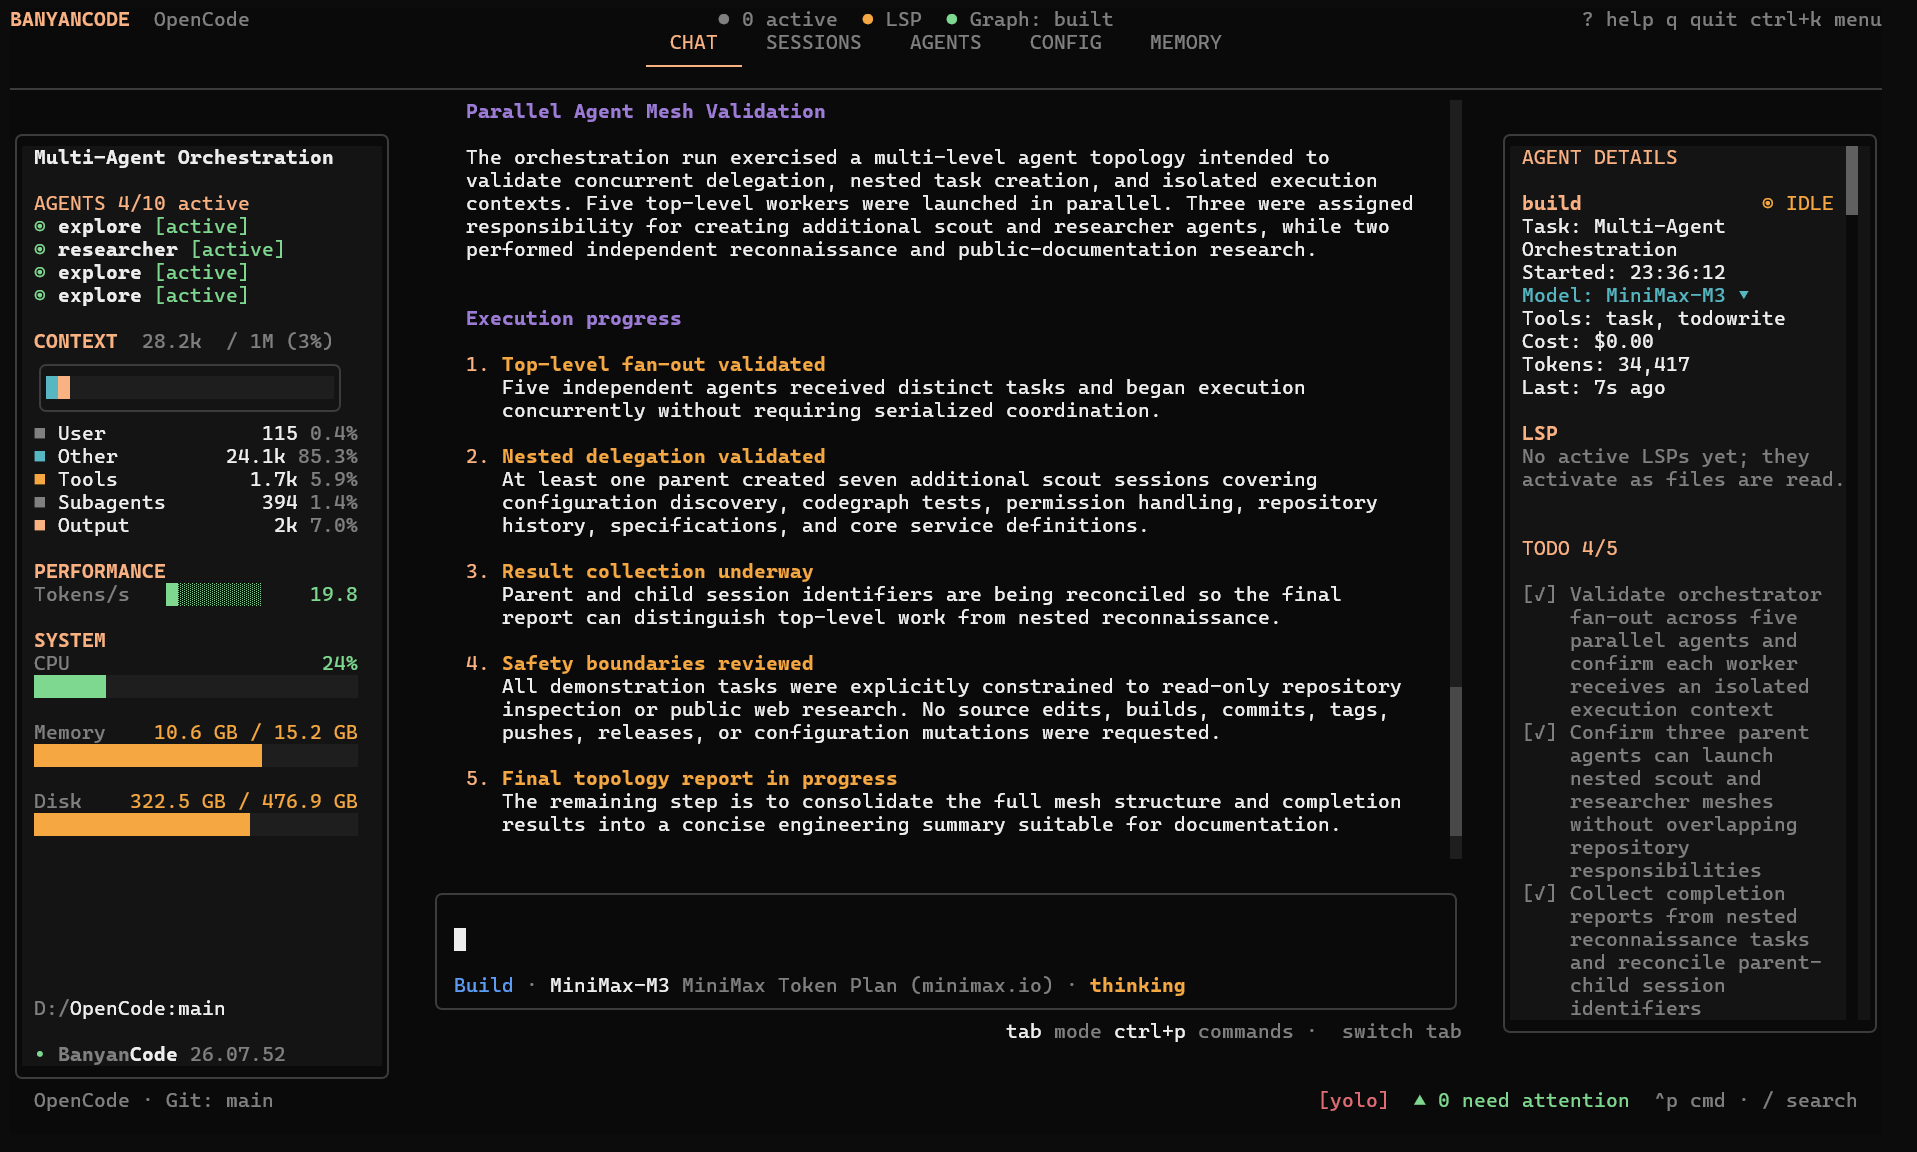
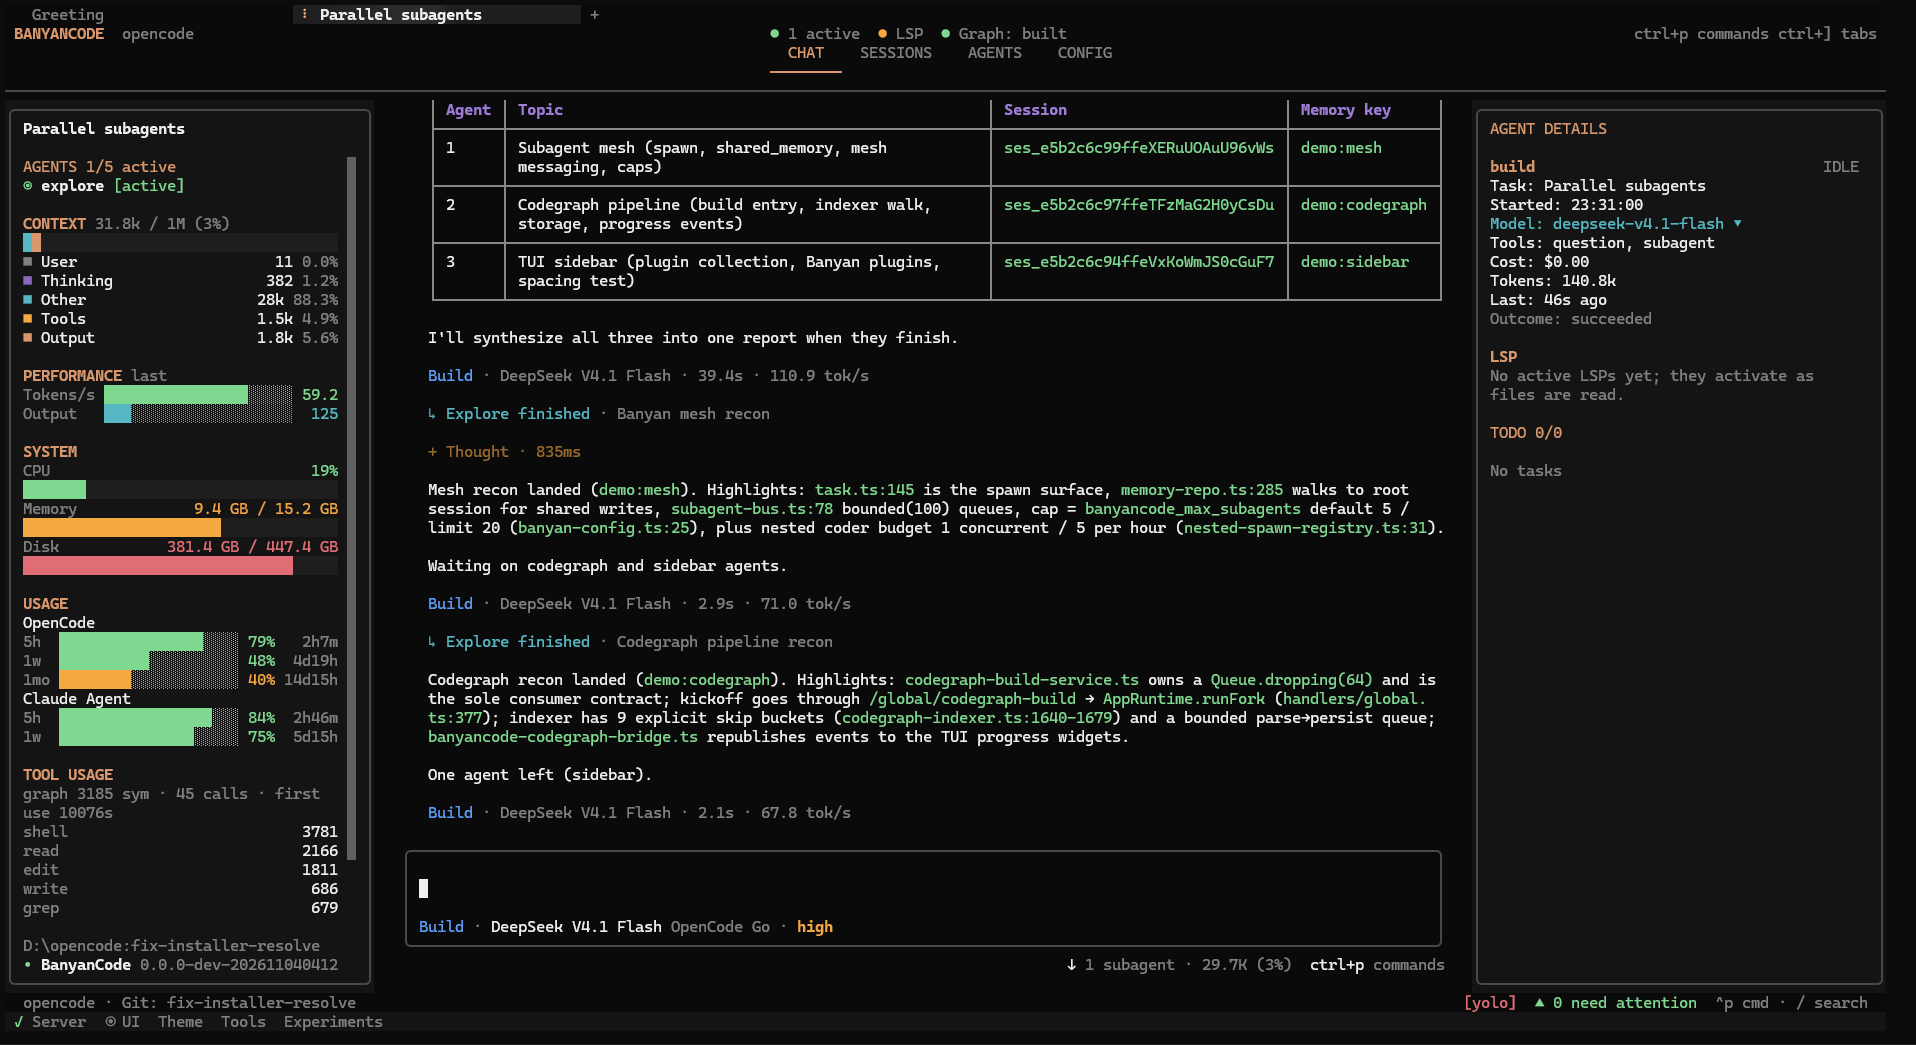
docs: update the README screenshots for 26.11.1

Changed region(s): [[0.0, 0.0, 0.9854, 1.0], [0.154, 0.0, 0.2463, 0.0306], [0.6467, 0.3368, 0.6775, 0.3675]]

diff --git a/README.md b/README.md
@@ -18,11 +18,11 @@ One coordinated TUI for agentic coding — built on [OpenCode](https://github.co
 ---
 
 <p align="center">
-  <img src="./assets/front.png" alt="BanyanCode homescreen — the terminal-native TUI entry point showing sessions, workspace, and the command palette" width="100%" />
+  <img src="./assets/front.png" alt="BanyanCode Home screen: a banyan tree above the BANYANCODE wordmark, the prompt, and a list of recent sessions to resume" width="100%" />
 </p>
 
 <p align="center">
-  <sub>The <b>Homescreen</b> — open a session, pick a workspace, and start a coordinated team of agents.</sub>
+  <sub>The <b>Home</b> screen: type a prompt, or pick up one of your recent sessions.</sub>
 </p>
 
 ---
@@ -63,11 +63,11 @@ BanyanCode's rule is simple: **structural questions get structural tools, not ey
 The orchestrator decomposes your task and dispatches specialist agents — `scout`, `coder`, `explore`, `researcher`, `reviewer` — **concurrently**. They share state over a typed message bus, request help from each other, report progress, and surface results in a unified agent tree. A user-configurable cap with **oldest-ended eviction** keeps concurrency bounded so nothing runs away with your resources.
 
 <p align="center">
-  <img src="./assets/subagent.png" alt="BanyanCode AGENTS tab — the agent tree showing the orchestrator dispatching multiple subagents and sub-subagents in a nested hierarchy" width="100%" />
+  <img src="./assets/subagent.png" alt="BanyanCode AGENTS tab in the Trace view: each subagent on a shared timeline with token activity and tool calls, beside a panel of tokens by branch and returned summaries" width="100%" />
 </p>
 
 <p align="center">
-  <sub>The <b>AGENTS</b> tab — every subagent, every nested spawn, every token, live in one terminal.</sub>
+  <sub>The <b>AGENTS</b> tab: every subagent on one timeline, live or replayed. Switch to Roots for a map of the files they touch, or Stream for a merged log.</sub>
 </p>
 
 ### 2. Cross-Session Memory
@@ -81,11 +81,11 @@ Most agents forget between chats. BanyanCode has a **persistent memory engine**:
 `/codegraph-build` indexes your repository into a **queryable graph of symbols, callers, dependents, tests, configs, routes, and impact**. Every agent gets structural context, not just file names or grep hits. Before any edit, agents run `preflight`, `blast_radius`, `repository_trace`, and `repository_tests` to **know what breaks before they touch the code** — no 500-line read required.
 
 <p align="center">
-  <img src="./assets/agents.png" alt="BanyanCode chat window showing a live agent plan, todo tracking, and the code-graph tools in action" width="100%" />
+  <img src="./assets/agents.png" alt="BanyanCode Chat view: a transcript of parallel subagent results, with context, usage and tool panels on the left and agent details on the right" width="100%" />
 </p>
 
 <p align="center">
-  <sub>The <b>Chat</b> view — live plan, live todos, live tool calls, live synthesis.</sub>
+  <sub>The <b>Chat</b> view: the transcript in the middle, with context, usage and agent details alongside.</sub>
 </p>
 
 > **See the system, not just the file.**
